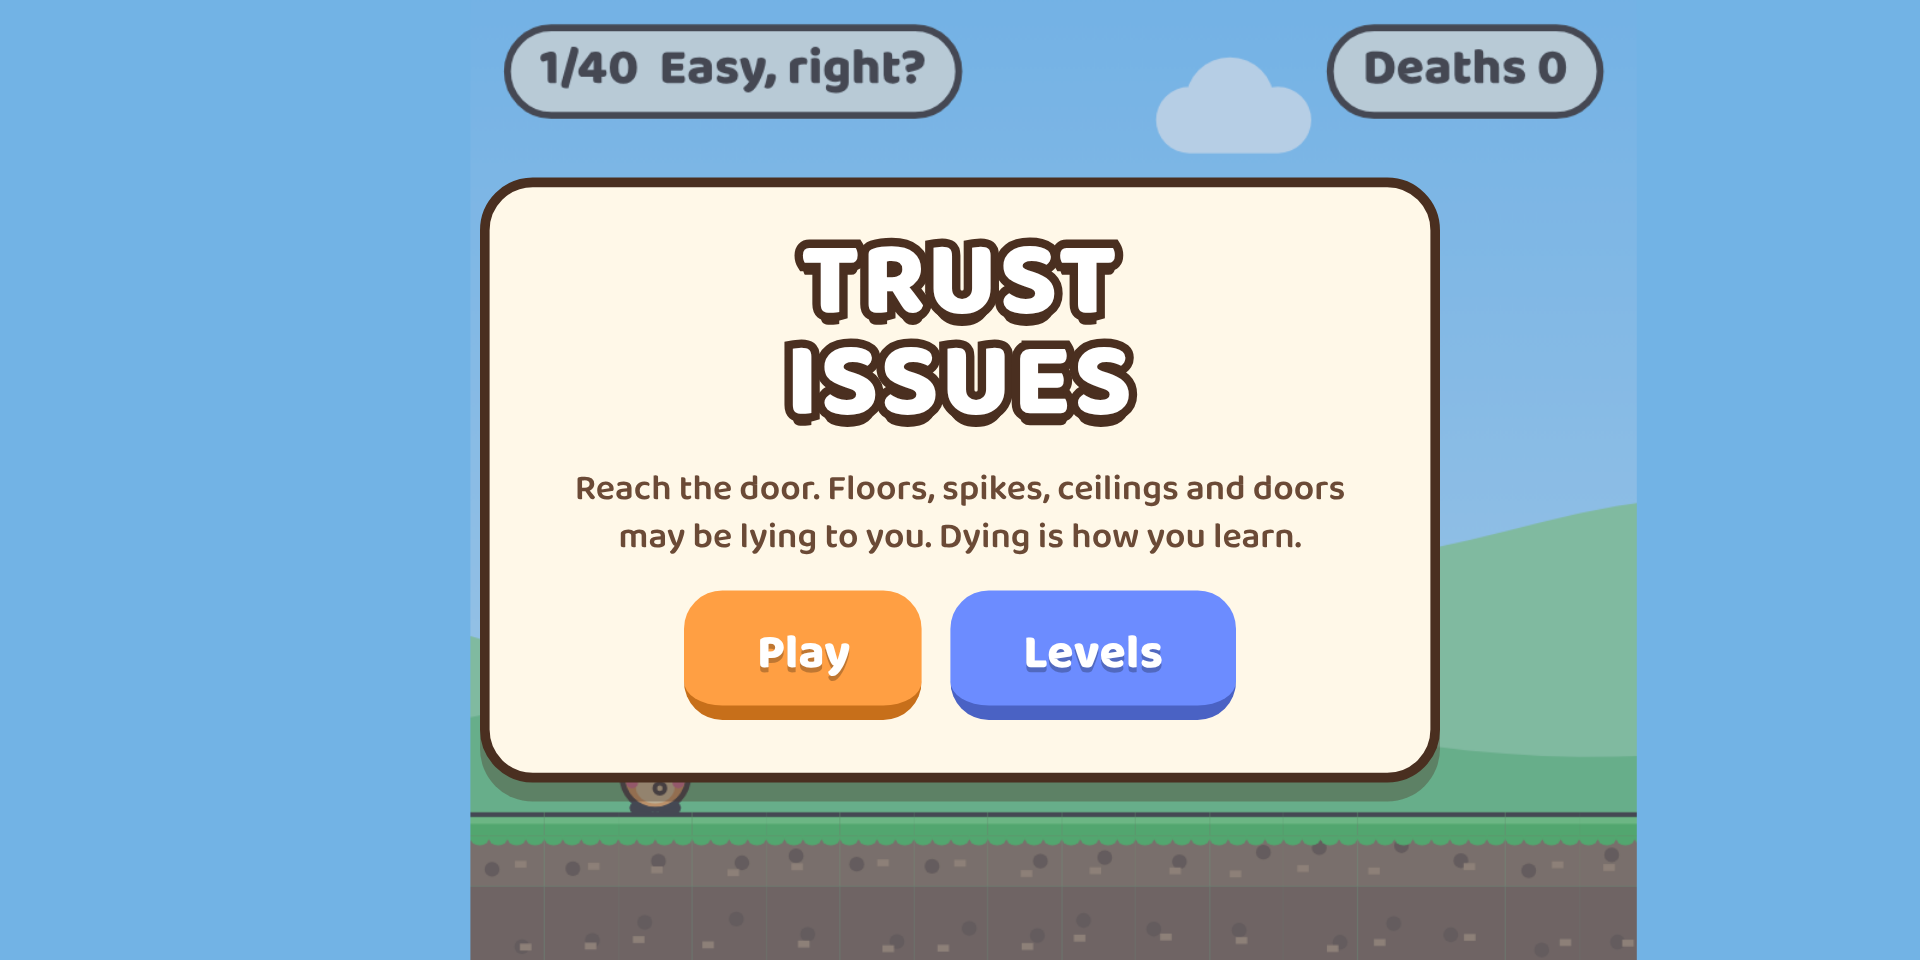
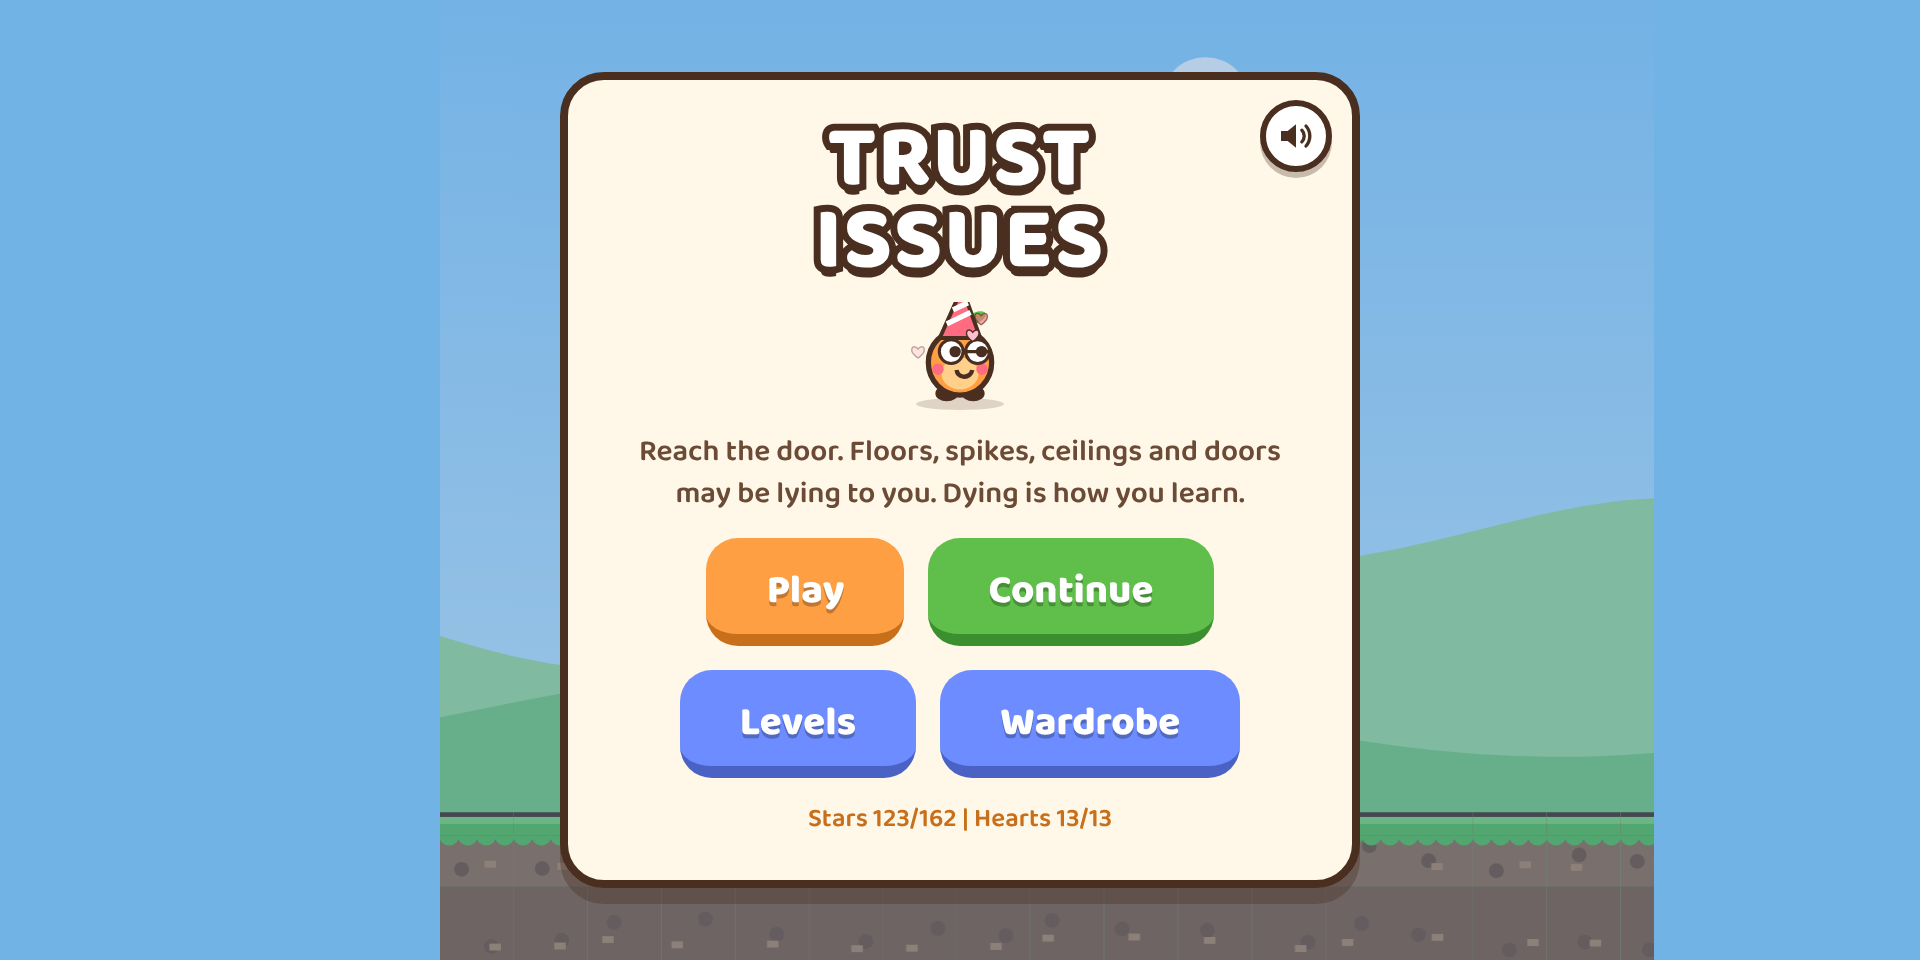
Mute button, cleaner menus, new store screenshots
- Sound on/off icon on the menu and pause card (and the M key), remembered between sessions
- No HUD or fog behind the menu and ending cards
- Wardrobe: icons drawn correctly, all items fit one screen in landscape
- Replace the store screenshots with 8 new ones showing the current game

Claude-Session: https://claude.ai/code/session_01MHiWD26n7GrmxjfkpEUQjR

Changed region(s): [[0.2188, 0.0, 0.8438, 1.0], [0.8125, 0.5, 0.875, 1.0]]

diff --git a/www/index.html b/www/index.html
@@ -70,15 +70,22 @@ canvas { display: block; }
 .grid .chap:first-child { margin-top: 0; }
 .grid button small { display: block; font-size: 9px; line-height: 1; letter-spacing: 1px; margin-top: 1px; color: #ffe27a; text-shadow: 0 1px 0 rgba(0,0,0,.3); }
 .grid button:disabled small { color: transparent; text-shadow: none; }
-.items { display: grid; grid-template-columns: repeat(auto-fill, minmax(74px, 1fr)); gap: 8px; width: 100%; max-height: 40vh; overflow: auto; padding: 4px; box-sizing: border-box; }
+.items { display: grid; grid-template-columns: repeat(auto-fill, minmax(60px, 1fr)); gap: 6px; width: 100%; max-height: min(330px, max(40vh, calc(100vh - 150px))); overflow: auto; padding: 4px; box-sizing: border-box; }
 .items .chap { grid-column: 1 / -1; }
-.item { font: 700 11px var(--font); color: var(--ink); background: #fff; border: 3px solid #d9cdb8; border-radius: 12px; padding: 4px 2px 4px; cursor: pointer; display: flex; flex-direction: column; align-items: center; gap: 0; line-height: 1.1; }
-.item canvas { width: 40px; height: 40px; }
+.item { font: 700 11px var(--font); color: var(--ink); background: #fff; border: 3px solid #d9cdb8; border-radius: 12px; padding: 2px 1px 3px; cursor: pointer; display: flex; flex-direction: column; align-items: center; gap: 0; line-height: 1.1; }
+.item canvas { width: 34px; height: 34px; }
+@media (max-height: 520px) { #wardArt { display: none; } }
 .item small { font: 800 10px var(--font); color: var(--orange-d); }
 .item.on { border-color: var(--green); background: #effbe9; }
 .item.lock { opacity: .85; }
 .item.lock canvas { filter: grayscale(.55) brightness(.9); }
 #toast { position: fixed; left: 50%; bottom: calc(20px + env(safe-area-inset-bottom, 0px)); transform: translateX(-50%); background: var(--ink); color: #fff; font: 800 14px var(--font); padding: 8px 16px; border-radius: 999px; z-index: 50; pointer-events: none; max-width: 80vw; text-align: center; }
+.card { position: relative; }
+.mute { position: absolute; top: 10px; right: 10px; width: 36px; height: 36px; padding: 0; border-radius: 50%; border: 3px solid var(--ink); background: #fff; color: var(--ink); display: flex; align-items: center; justify-content: center; cursor: pointer; box-shadow: 0 3px 0 rgba(74,47,32,.3); }
+.mute:active { transform: translateY(2px); box-shadow: 0 1px 0 rgba(74,47,32,.3); }
+.mute svg { width: 20px; height: 20px; fill: currentColor; stroke: currentColor; }
+.mute.off .w, .mute:not(.off) .x { display: none; }
+.mute.off { background: #ffe0e0; }
 [hidden] { display: none !important; }
 </style>
 
@@ -94,6 +101,7 @@ canvas { display: block; }
 
 <div class="screen" id="menu">
   <div class="card">
+    <button class="mute" id="muteMenu" aria-label="Sound on or off"><svg viewBox="0 0 24 24" aria-hidden="true"><path d="M3 9v6h4l5 4V5L7 9z" stroke="none"/><path class="w" d="M15.5 8.5a5 5 0 010 7M18 6a9 9 0 010 12" fill="none" stroke-width="2" stroke-linecap="round"/><path class="x" d="M15 9l6 6M21 9l-6 6" fill="none" stroke-width="2.2" stroke-linecap="round"/></svg></button>
     <h1>Trust<br>Issues</h1>
     <canvas id="menuArt" class="art" width="260" height="110"></canvas>
     <p>Reach the door. Floors, spikes, ceilings and doors may be lying to you. Dying is how you learn.</p>
@@ -112,6 +120,7 @@ canvas { display: block; }
 
 <div class="screen" id="pause" hidden>
   <div class="card">
+    <button class="mute" id="mutePause" aria-label="Sound on or off"><svg viewBox="0 0 24 24" aria-hidden="true"><path d="M3 9v6h4l5 4V5L7 9z" stroke="none"/><path class="w" d="M15.5 8.5a5 5 0 010 7M18 6a9 9 0 010 12" fill="none" stroke-width="2" stroke-linecap="round"/><path class="x" d="M15 9l6 6M21 9l-6 6" fill="none" stroke-width="2.2" stroke-linecap="round"/></svg></button>
     <h1>Paused</h1>
     <div class="col">
       <button id="resume" class="btn">Resume</button>
@@ -471,7 +480,8 @@ canvas { display: block; }
   var mode = "menu", li = 0, deaths = 0, best = 0;
   var crits = [], hearts = [], winT = 0, winStars = 0, winDoor = null, stars = {}, heartsGot = {};
   var g, p, doors, hs, cs, zs, ftimers, shakes, falling, revealed, popped, reversed, particles, ring, msg, msgT, deadT, bannerT, tick = 0;
-  var input = { l: false, r: false }, audio;
+  var input = { l: false, r: false }, audio, muted = false;
+  try { muted = localStorage.getItem("trust-mute") === "1"; } catch (e) {}
   var viewW = W, viewH = H, baseScale = 1, camX = 0, camY = 0, lvDeaths = 0, uiOpen = false, levelsFrom = "menu";
   try { best = +localStorage.getItem("trust-best") || 0; stars = JSON.parse(localStorage.getItem("trust-stars") || "{}") || {}; heartsGot = JSON.parse(localStorage.getItem("trust-hearts") || "{}") || {}; } catch (e) {}
   function save() { try { localStorage.setItem("trust-stars", JSON.stringify(stars)); localStorage.setItem("trust-hearts", JSON.stringify(heartsGot)); } catch (e) {} }
@@ -479,6 +489,7 @@ canvas { display: block; }
   function totalHearts() { var n = 0; LEVELS.forEach(function (lv) { lv.g.forEach(function (r) { r.forEach(function (ch) { if (ch === "o") n++; }); }); }); return n; }
 
   function beep(f, d, type) {
+    if (muted) return;
     try {
       audio = audio || new (window.AudioContext || window.webkitAudioContext)();
       var o = audio.createOscillator(), v = audio.createGain();
@@ -1190,8 +1201,9 @@ canvas { display: block; }
       ctx.fillStyle = pt.col; ctx.beginPath(); ctx.arc(pt.x, pt.y, pt.t < 0.35 && pt.col === "#fff8e8" ? 1.6 : 2.6, 0, 6.3); ctx.fill(); ctx.lineWidth = 0.8; ctx.strokeStyle = INK; ctx.stroke();
     }
     if (mode === "play" || mode === "end" || mode === "menu" || mode === "win") drawPlayer();
-    drawFog();
+    if (mode !== "menu") drawFog();
     ctx.restore();
+    if (mode === "menu" || mode === "end") return;
     pill((li + 1) + "/" + LEVELS.length + "  " + LEVELS[li].name, 8, 6, "left", 11);
     if (hearts.length) {
       var gotN = hearts.filter(function (h) { return h.got; }).length;
@@ -1399,7 +1411,7 @@ canvas { display: block; }
         cv2.width = 80; cv2.height = 80; nm.textContent = it.name; nt.textContent = itemNote(it);
         b.appendChild(cv2); b.appendChild(nm); b.appendChild(nt); grid.appendChild(b);
         paintTo(cv2, function (w, h2) {
-          var o = { x: w / 2, y: h2 + 17, sx: 1.5, sy: 1.5, noBlink: true, happy: true };
+          var o = { x: w / 2, y: h2 - 3, sx: 1.15, sy: 1.15, noBlink: true, happy: true };
           if (it.kind === "color") { o.body = it.body; o.belly = it.belly; o.hat = "none"; } else { o.hat = it.id; o.body = skin.body; o.belly = skin.belly; }
           figure(o);
         });
@@ -1422,6 +1434,15 @@ canvas { display: block; }
   $("wardAll").addEventListener("click", function () { buy(BUNDLE, function (ok, msg) { if (ok) { applySkin(); renderWardrobe(); toast("Everything unlocked. So cute!"); } else toast(msg); }); });
   $("wardRestore").addEventListener("click", restoreBuys);
   applySkin();
+  function setMuted(m, quiet) {
+    muted = m; try { localStorage.setItem("trust-mute", m ? "1" : "0"); } catch (e) {}
+    $("muteMenu").classList.toggle("off", m); $("mutePause").classList.toggle("off", m);
+    if (!m && !quiet) beep(660, 0.08, "triangle");
+  }
+  $("muteMenu").addEventListener("click", function () { setMuted(!muted); });
+  $("mutePause").addEventListener("click", function () { setMuted(!muted); });
+  window.addEventListener("keydown", function (e) { if (e.code === "KeyM" && !e.repeat) setMuted(!muted); });
+  setMuted(muted, true);
 
   /* ---------- Loop & sizing ---------- */
   function resize() {
